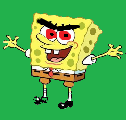
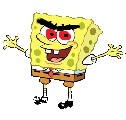
Ahora las imagenes por omisión son en escala de grises

diff --git a/src/cfg.cpp b/src/cfg.cpp
@@ -235,18 +235,15 @@ void configuracion::obtener_plataformas (const char *camino, std::list<plataform
 			if (nodo_hijo->type == XML_ELEMENT_NODE) {
 				std::string s = (const char*)xmlNodeGetContent(nodo_hijo);
 				if (strcmp ((const char*)nodo_hijo->name, "tipo") == 0) {
-					if (s == "puente") {
+					if (s == "pasto") {
 						leidos |= t;
-						p.t = plataforma::puente;
+						p.t = plataforma::pasto;
 					} else if (s == "piedra") {
 						leidos |= t;
 						p.t = plataforma::piedra;
 					} else if (s == "hielo") {
 						leidos |= t;
 						p.t = plataforma::hielo;
-					} else if (s == "metal") {
-						leidos |= t;
-						p.t = plataforma::metal;
 					} else {
 						// TODO log
 					}
@@ -291,7 +288,7 @@ void configuracion::obtener_plataformas (const char *camino, std::list<plataform
 	l.sort (plataforma::comparar_plataforma);
 }
 
-SDL_Texture *configuracion::obtener_textura (const char *camino, SDL_Renderer *renderer, std::function<bool(SDL_Texture *textura, bool omision)> validar)
+SDL_Texture *configuracion::obtener_textura (const char *camino, SDL_Renderer *renderer)
 {
 	SDL_Texture *textura = nullptr;
 	std::string s = obtener_s (camino, [renderer, &textura] (std::string & s, bool omision) {
@@ -316,7 +313,7 @@ SDL_Texture *configuracion::obtener_textura (const char *camino, SDL_Renderer *r
 		std::replace (s.begin(), s.end(), '/', '_');
 		std::replace (s.begin(), s.end(), '.', '_');
 		std::replace (s.begin(), s.end(), ' ', '_');
-		s.insert (0, "_binary____");
+		s.insert (0, "_binary_imagen_gris_");
 		std::string se = s;
 		s.append ("_start");
 		se.append ("_end");

diff --git a/src/cfg.hpp b/src/cfg.hpp
@@ -17,7 +17,7 @@ extern "C"
 class plataforma
 {
 public:
-	typedef enum {piedra, puente, hielo, metal} tipo;
+	typedef enum {pasto, piedra, hielo} tipo;
 	tipo t;
 	int xi, xf, y;
 	static bool comparar_plataforma (const plataforma& p1, const plataforma& p2);
@@ -37,7 +37,7 @@ public:
 	float obtener_f (const char *camino, std::function<bool(float n, bool omision)> validar);
 	double obtener_d (const char *camino, std::function<bool(double n, bool omision)> validar);
 	long double obtener_ld (const char *camino, std::function<bool(long double n, bool omision)> validar);
-	SDL_Texture *obtener_textura (const char *camino, SDL_Renderer *renderer, std::function<bool(SDL_Texture *textura, bool omision)> validar);
+	SDL_Texture *obtener_textura (const char *camino, SDL_Renderer *renderer);
 	void obtener_plataformas (const char *camino, std::list<plataforma> &l);
 private:
 	template<typename t> class tipos

diff --git a/src/juego.cpp b/src/juego.cpp
@@ -52,8 +52,10 @@ juego::juego ():
 	SDL_FreeSurface(superficieTemporal);
 
 
-	fondo1.crearTextura("imagenes/_fondo_1_.png",renderer);
-	fondo2.crearTextura("imagenes/_fondo_2_.png",renderer);
+	//fondo1.crearTextura("imagenes/_fondo_1_.png",renderer);
+	//fondo2.crearTextura("imagenes/_fondo_2_.png",renderer);
+	fondo1.obtenerTextura("//configuracion//escenarios//nivel1//fondo1", renderer);
+	fondo2.obtenerTextura("//configuracion//escenarios//nivel1//fondo2", renderer);
 
 	textura_objetivo = SDL_CreateTexture (
 		renderer,
@@ -66,7 +68,8 @@ juego::juego ():
 	boby.setRectOrigen(0,0,480,480);
 
 	darthBob = new Enemigo(400,150,5);
-	darthBob->crearTextura("imagenes/enemigo.png",renderer);
+	//darthBob->crearTextura("imagenes/enemigo.png",renderer);
+	darthBob->obtenerTextura("//configuracion//personajes//enemigo//sprite", renderer);
 
 
 	// Creamos textura para pegar las plataformas

diff --git a/src/EntidadDibujable.cpp b/src/EntidadDibujable.cpp
@@ -6,6 +6,7 @@
  */
 
 #include "EntidadDibujable.h"
+#include "iocontra.hpp"
 
 // ----------------- CONSTRUCTOR -----------------------------
 EntidadDibujable::EntidadDibujable() {
@@ -17,6 +18,10 @@ EntidadDibujable::EntidadDibujable() {
 	setRectDestino(0,0,800,600);
 }
 // ------------ GETTER & SETTER----------------------------------------------
+void EntidadDibujable::obtenerTextura(const char* path,SDL_Renderer* renderer){
+	textura = cfg.obtener_textura (path, renderer);
+}
+
 void EntidadDibujable::crearTextura(const char* path,SDL_Renderer* renderer){
 	SDL_Surface* superficieTemporal = IMG_Load(path);
 

diff --git a/src/EntidadDibujable.h b/src/EntidadDibujable.h
@@ -21,6 +21,7 @@ public:
 
 	// GETTER SETTER
 	void crearTextura(const char* path,SDL_Renderer* renderer);
+	void obtenerTextura(const char* path,SDL_Renderer* renderer);
 	void asignarTextura(SDL_Texture* textura);
 	SDL_Rect getRectaOrigen();
 	SDL_Rect getRectaDestino();
